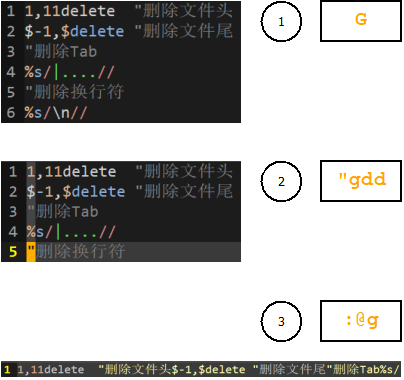
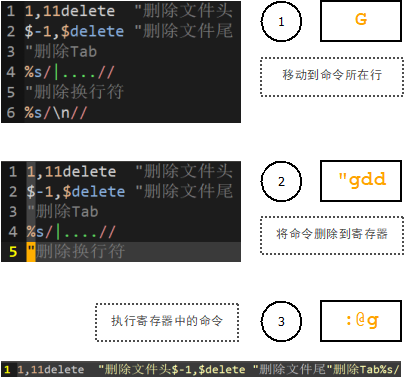
ExRun

diff --git a/learn-vi-48-02-ExCommand-Run.html b/learn-vi-48-02-ExCommand-Run.html
@@ -1,0 +1,39 @@
+<!DOCTYPE html PUBLIC "-//W3C//DTD XHTML 1.0 Strict//EN"
+"http://www.w3.org/TR/xhtml1/DTD/xhtml1-strict.dtd">
+
+<html xmlns="http://www.w3.org/1999/xhtml" lang="zh" xml:lang="zh">
+<head>
+	<meta http-equiv="Content-Type" content="text/html; charset=utf-8" />
+	<link rel="stylesheet" type="text/css" href="learn-vi.css" />
+	<title>VIM学习笔记 执行Ex命令(Ex Command-Run)</title>
+</head>
+<body>
+	<h1>VIM学习笔记 执行Ex命令(Ex Command-Run)</h1>
+	<p>可以使用以下几种方式来执行Ex命令：</p>
+	<ul>
+		<li>在常规模式下，输入冒号&ldquo;:&rdquo;以及命令，点击回车键即可执行Ex命令；</li>
+		<li>进入<a href="http://yyq123.github.io/learn-vim/learn-vi-48-ExMode.html" title="Ex模式(Ex Mode)">Ex模式</a>，执行Ex命令；</li>
+		<li>调用<a href="http://yyq123.github.io/learn-vim/learn-vi-48-05-ExScript.html" title="Ex脚本(Ex Script)">Ex脚本</a>，以执行其中的Ex命令；</li>
+		<li>使用竖直线&ldquo;|&rdquo;分割符，组合执行多条Ex命令；</li>
+		<li>执行寄存器中存储的Ex命令。</li>
+	</ul>
+
+	<p style="font-weight:bold; border-bottom:1px solid lightgray; border-left:6px solid lightgray; padding:0 0 3px 5px">组合执行多条Ex命令</p>
+	<p>竖直线&ldquo;|&rdquo;作为分割符，可以将多个命令组合在一起执行。使用&ldquo;|&rdquo;时，如果前一个命令影响到文件中行的顺序，那么下一个命令将使用新的行位置进行工作。</p>
+	<p>使用以下命令，将首先删除第1行至第3行，然后在当前行（即调用ex命令之前的第4行）进行替换：</p>
+	<p style="text-indent:2em"><code class="inset">:1,3d | s/thier/their/</code></p>
+	<p>使用以下命令，将首先把1至5行移动到第10行之后，然后显示所有包含模式pattern的行：</p>
+	<p style="text-indent:2em"><code class="inset">:1,5m10 | g/pattern/nu</code></p>
+
+	<p style="font-weight:bold; border-bottom:1px solid lightgray; border-left:6px solid lightgray; padding:0 0 3px 5px">利用寄存器执行Ex命令</p>
+	<p>例如在<a href="https://yyq123.github.io/learn-vim/samples/ExScript_Sample.vim" title="Ex脚本文件">Ex脚本文件(Ex Script)</a>中包含以下命令：</p>
+	<p style="text-indent:2em"><code class="inset">%s/\n//</code></p>
+	<p>我们移动到此行，然后使用以下命令将该行内容删除到命名<a href="http://yyq123.github.io/learn-vim/learn-vi-12-Register.html" title="Register">寄存器(Regists)</a>&ldquo;g&rdquo;之中：</p>
+	<p style="text-indent:2em"><code class="inset">"gdd</code></p>
+	<p>使用以下命令，则可以执行已存储在&ldquo;g&rdquo;寄存器之中的命令：</p>
+	<p style="text-indent:2em"><code class="inset">:@g</code></p>
+	<p><a href="https://yyq123.github.io/learn-vim/images/ExCommand_Run_Register.png" title="ExCommand_Run_by_Register"><img src="https://yyq123.github.io/learn-vim/images/ExCommand_Run_Register.png" alt="ExCommand_Run_by_Register" /></a></p>
+
+	<p style="border-top:1px solid lightgray"><span style="float:right">Ver: 2.0&nbsp;|&nbsp;<a href="mailto:yyq123@gmail.com">YYQ</a></span><span>&lt;<a title="Ex命令寻址方式(Ex Command-Address)" href="http://yyq123.github.io/learn-vim/learn-vi-48-01-ExCommand-Adress.html">上一篇</a>&nbsp;|<a title="笔记列表" href="http://yyq123.github.com/learn-vim/learn-vi-00-00-TOC.html">&nbsp;目录&nbsp;</a>|&nbsp;<a title="Ex脚本(Ex Script)" href="http://yyq123.github.io/learn-vim/learn-vi-48-05-ExScript.html">下一篇</a>&gt;</span></p>
+</body>
+</html>
